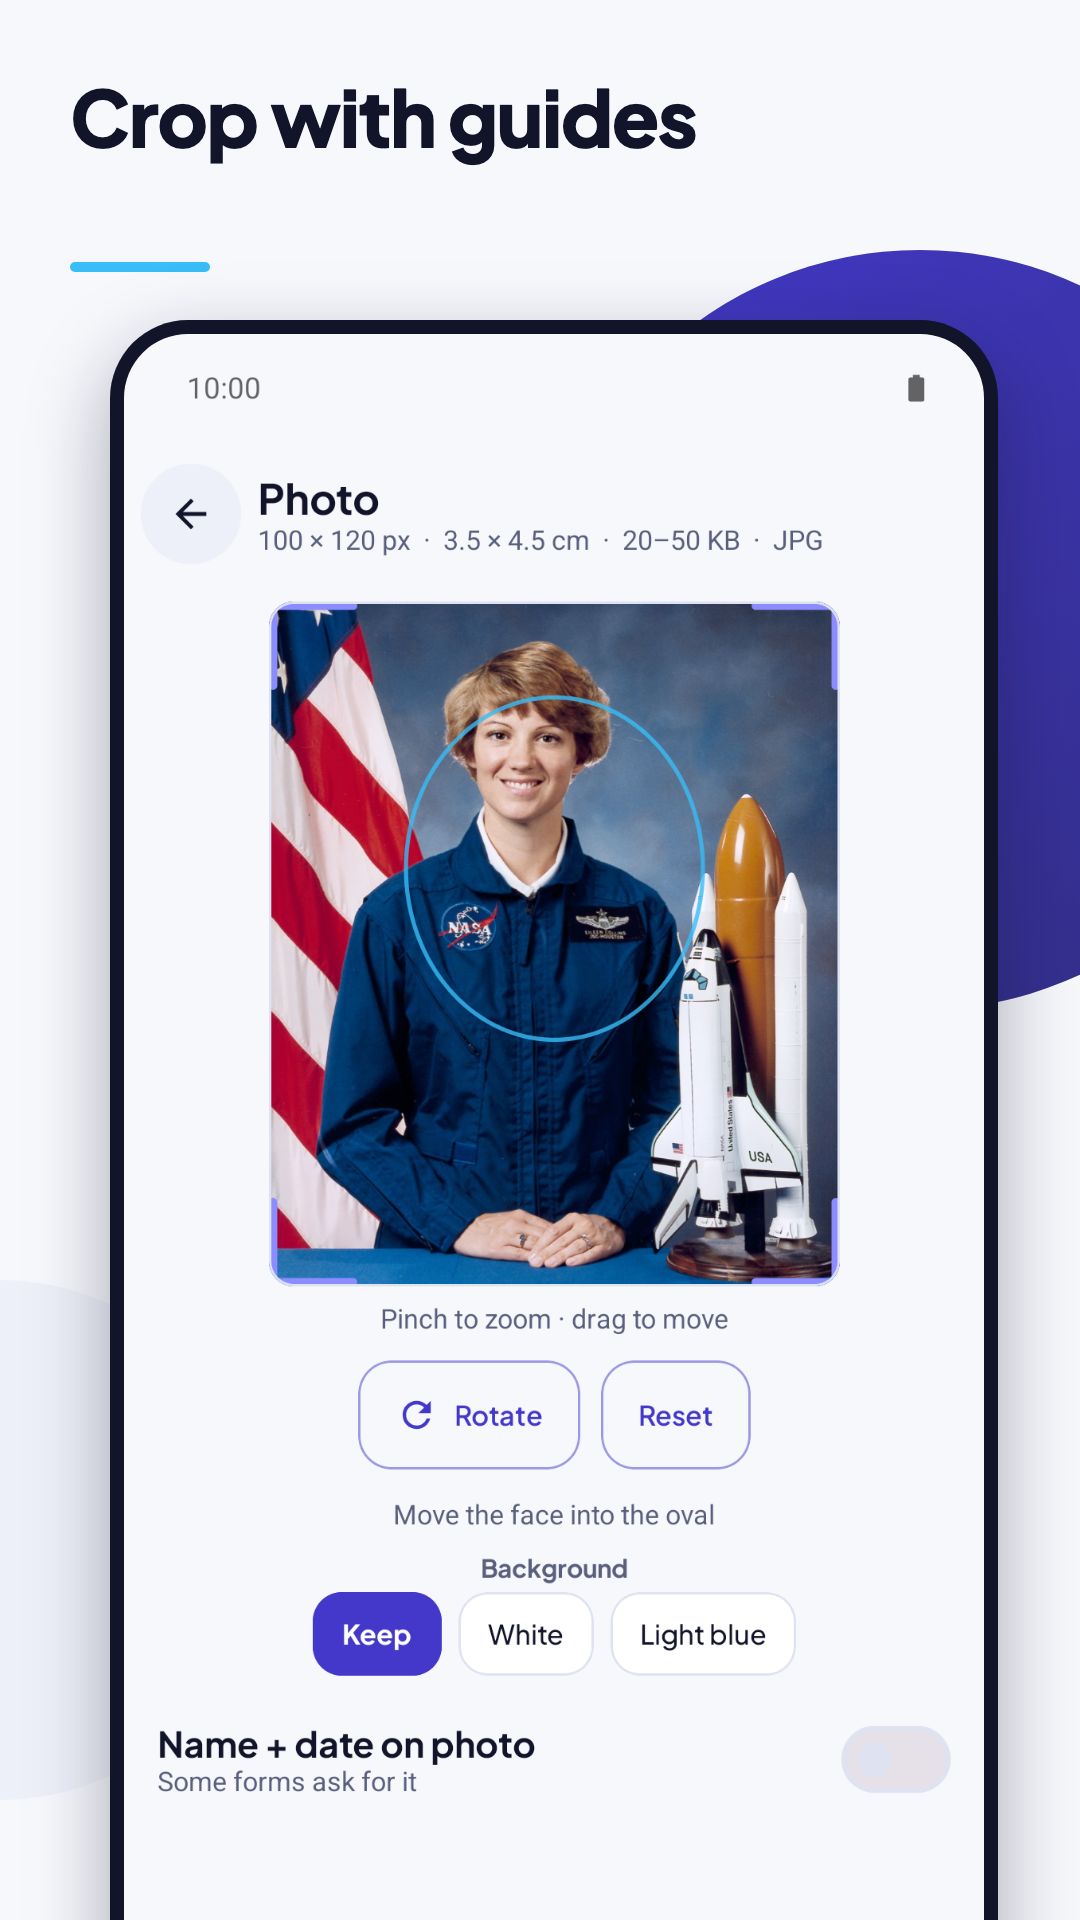
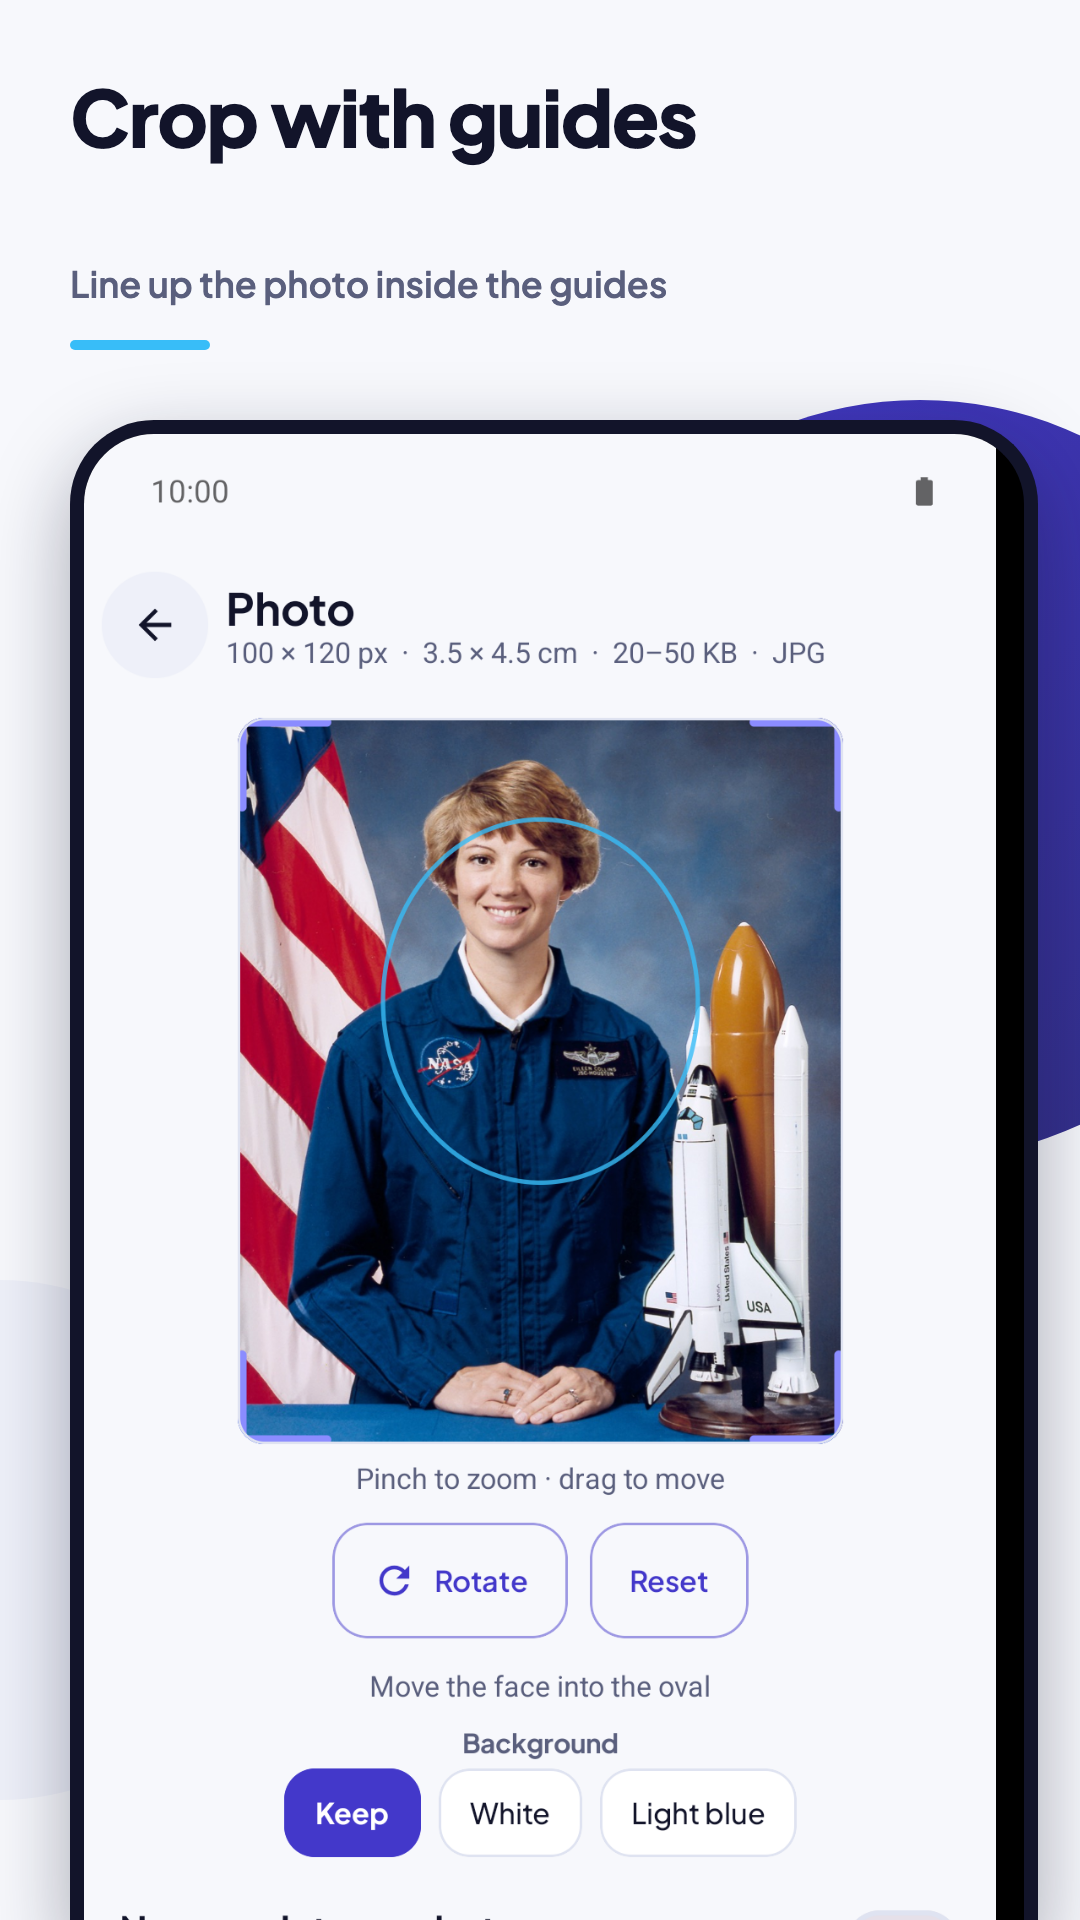
docs: Haiku release report for 1.3.0 (4), restyled store screenshots

diff --git a/tools/store-art/make_shots.py b/tools/store-art/make_shots.py
@@ -7,29 +7,30 @@ root = pathlib.Path(__file__).resolve().parents[2]
 art = root / "tools/store-art"; out = root / "store-assets/screenshots"; out.mkdir(parents=True, exist_ok=True)
 tmp = pathlib.Path("/tmp/wpf-shots"); tmp.mkdir(exist_ok=True)
 SHOTS = [
-    ("raw1_result.png", "Exam photo & sign in exact KB"),
-    ("raw2_home_search.png", "36 exam presets, searchable"),
-    ("raw3_crop_editor.png", "Crop with guides"),
-    ("raw4_signature_compare.png", "Clean, sharp signatures"),
-    ("raw5_id_editor.png", "Passport & ID photos"),
-    ("raw6_print.png", "Print 4×6 or A4 sheets"),
-    ("raw7_builder.png", "Your own custom sizes"),
-    ("raw8_dark_home.png", "Light and dark themes"),
+    ("raw1_result.png", "Exam photo & sign in exact KB", "Checks size, KB, format and DPI before you save"),
+    ("raw2_home_search.png", "36 exam presets, searchable", "SSC, UPSC, bank, NEET, JEE and more"),
+    ("raw3_crop_editor.png", "Crop with guides", "Line up the photo inside the guides"),
+    ("raw4_signature_compare.png", "Clean, sharp signatures", "Compare before and after with a slider"),
+    ("raw5_id_editor.png", "Passport & ID photos", "Face-size check for ID photos"),
+    ("raw6_print.png", "Print 4×6 or A4 sheets", "Lay out copies on one printable sheet"),
+    ("raw7_builder.png", "Your own custom sizes", "Set px, cm, mm or inches, DPI and KB range"),
+    ("raw8_dark_home.png", "Light and dark themes", "Follows your phone's theme"),
 ]
 FONT = f"@font-face{{font-family:J;src:url('file://{art}/jakarta.ttf');font-weight:200 800}}@font-face{{font-family:M;src:url('file://{art}/dmmono.ttf')}}"
 def render(html, png, w, h):
     f = tmp / (pathlib.Path(png).stem + ".html"); f.write_text(html)
     subprocess.run(["sh", str(art / "render.sh"), str(f), str(png), str(w), str(h)], check=True)
-for i, (raw, head) in enumerate(SHOTS, 1):
+for i, (raw, head, sub) in enumerate(SHOTS, 1):
     html = f"""<!doctype html><meta charset=utf-8><style>{FONT}
 html,body{{margin:0}}body{{width:1080px;height:1920px;background:#F7F8FC;position:relative;overflow:hidden;font-family:J,sans-serif}}
-.blob{{position:absolute;right:-220px;top:250px;width:760px;height:760px;border-radius:50%;background:linear-gradient(135deg,#4338CA,#312E81)}}
+.blob{{position:absolute;right:-220px;top:400px;width:760px;height:760px;border-radius:50%;background:linear-gradient(135deg,#4338CA,#312E81)}}
 .blob2{{position:absolute;left:-260px;bottom:120px;width:520px;height:520px;border-radius:50%;background:#EEF0F9}}
 h1{{position:absolute;left:70px;right:70px;top:72px;margin:0;font-size:78px;line-height:88px;font-weight:800;color:#12142A;letter-spacing:-1.5px}}
-.bar{{position:absolute;left:70px;top:262px;width:140px;height:10px;border-radius:5px;background:#38BDF8}}
-.dev{{position:absolute;left:110px;top:320px;width:860px;height:1700px;border-radius:78px 78px 0 0;border:14px solid #12142A;border-bottom:0;overflow:hidden;box-shadow:0 30px 80px rgba(18,20,42,.35);background:#000}}
-.dev img{{width:860px;display:block}}</style>
-<div class=blob></div><div class=blob2></div><h1>{head}</h1><div class=bar></div>
+.sub{{position:absolute;left:70px;right:70px;top:262px;margin:0;font-size:36px;line-height:44px;font-weight:600;color:#5A5F7D}}
+.bar{{position:absolute;left:70px;top:340px;width:140px;height:10px;border-radius:5px;background:#38BDF8}}
+.dev{{position:absolute;left:70px;top:420px;width:940px;height:1500px;border-radius:84px 84px 0 0;border:14px solid #12142A;border-bottom:0;overflow:hidden;box-shadow:0 30px 80px rgba(18,20,42,.35);background:#000}}
+.dev img{{width:912px;display:block}}</style>
+<div class=blob></div><div class=blob2></div><h1>{head}</h1><p class=sub>{sub}</p><div class=bar></div>
 <div class=dev><img src="file://{root}/store-assets/raw/{raw}"></div>"""
     render(html, out / f"{i}.png", 1080, 1920)
 # feature graphic: wordmark + value line + real capture card + Snip

diff --git a/HAIKU_RELEASE_REPORT.md b/HAIKU_RELEASE_REPORT.md
@@ -1,84 +1,65 @@
-# Haiku release report: Wiz Photo Fit 1.1.0 (2)
+# Haiku release report: Wiz Photo Fit 1.3.0 (4)
 
-Date: 2026-11-26. Branch merged to main (fast-forward) at e76388a.
+Date: 2026-11-28. Release built from `main` (tip 99f8b06, merge 34345fb includes 1575fa9). Feature branch not merged again.
 
-## Version and build
-- applicationId com.wizlabs.photofit, versionCode 2, versionName 1.1.0, minSdk 26, targetSdk 36, compileSdk 36.
-- Local: `gradle --offline :app:testDebugUnitTest :app:assembleRelease` BUILD SUCCESSFUL. Unit tests 53 run, 0 failures, 0 errors (counted from XML results). Unsigned release APK 1,894,235 bytes.
-- CI (run 45743657858, push to main): success. Artifacts: `Wiz Photo Fit (1.1.0) AAB` 4,389,553 bytes, `Wiz Photo Fit (1.1.0) APK` 1,719,763 bytes.
-- Local copies: dist/ci/Wiz Photo Fit (1.1.0) AAB/Wiz Photo Fit (1.1.0).aab (4,534,859 bytes on disk; gitignored).
+## Version
+- applicationId com.wizlabs.photofit, versionCode 4, versionName 1.3.0, minSdk 26, targetSdk 36, compileSdk 36 (`app/build.gradle.kts`)
+- Play track: Closed testing - Alpha, release name `4 (1.3.0)`. Previous release 3 (1.2.0) stays live.
 
-## Signing
-- `jarsigner -verify -certs` on the AAB: jar verified, signed by CN=Wiz Labs, OU=Wiz Labs, O=Wiz Labs, L=Ambala, ST=Haryana, C=IN. Signature file alias WIZFUELD.
-- Same signer as the 1.0.0 (1) AAB in play-uploads-v2 (matching upload key).
-- APK badging (aapt2 on CI APK): package com.wizlabs.photofit, versionCode 2, versionName 1.1.0, targetSdk 36.
-- Secrets and keystore not printed, copied or changed.
-- Not checked: AAB manifest versionCode read directly (no bundletool here). Versioning taken from the CI APK built from the same commit.
+## Build and tests
+- `gradle --offline :app:testDebugUnitTest :app:assembleRelease`: BUILD SUCCESSFUL. Unit tests 76 run, 0 failures, 0 errors (counted from `app/build/test-results`).
+- Release APK (local, signer CN=Wiz Labs): 1,921,057 bytes.
+- CI "Wiz Photo Fit - Production APK and AAB" on main tip 99f8b06: success (run 46158414607).
 
-## Play Console (Closed testing - Alpha)
-- Existing 1.0.0 (1): live on the track ("Available to selected testers", released Nov 14 2026, 178 countries). Publishing submissions for the app: 0 in review. No review in progress.
-- New draft release "2 (1.1.0)" created on Closed testing - Alpha:
-  - AAB uploaded (App bundle 2 (1.1.0), API 26+, target SDK 36, 4 ABIs).
-  - Release notes en-US (changelogs/2.txt, wrapped in language tags). hi-IN not provided.
-  - Saved. Publishing overview: "Changes not yet submitted for review" (Closed testing - Alpha, 2 (1.1.0)).
-  - NOT sent for review.
-- Warning shown by Play: native code without debug symbols (optional symbol upload).
-- Not done: store listing screenshots upload (en-US, 8 images in order from store-assets/screenshots/). Listing page not reached in this run.
+## AAB
+- Path: `dist/ci/Wiz Photo Fit (1.3.0) AAB/Wiz Photo Fit (1.3.0).aab` (gitignored)
+- Size 4,586,075 bytes (under the 10 MB split limit, uploaded as one file)
+- SHA-256 399a67e3847132f672250fc912dda5c08d8e2848afb768c3232c4b3f910b2272
+- Signer: `CN=Wiz Labs, OU=Wiz Labs, O=Wiz Labs, L=Ambala, ST=Haryana, C=IN` (from `META-INF/*.RSA`). Upload accepted, no key-mismatch error.
+- Play bundle row shows version 4 (1.3.0), API 26+, target SDK 36.
+- versionCode 4 confirmed in the local APK manifest and in source; the AAB's binary manifest was not decoded (no bundletool here).
 
-## Store assets and listing
-- icon-512.png: 512x512, text-free. OK.
-- feature-graphic-1024x500.png: 1024x500. OK.
-- screenshots 1-8: all 1080x1920. Not re-viewed in this run.
-- Title (30 chars): "Wiz Photo Fit: Exam Photo&Sign". OK.
-- Short description: 75 chars. OK.
-- Full description en-US: 2,941 chars. Changed: "Small download and smooth on low-end phones" -> "Small download" (claim not verified: jank inconclusive, cold start over target).
-- Hindi (hi-IN) full description still has no new-feature text. Known.
-- Promo-word scan of en-US listing and changelog: no hits for best, #1, top, free, price, ads, promo.
+## Permissions (merged APK manifest)
+- `android.permission.INTERNET`, `android.permission.ACCESS_NETWORK_STATE`, the AndroidX `DYNAMIC_RECEIVER_NOT_EXPORTED_PERMISSION` signature permission. No AD_ID, no AdMob app-ID meta-data.
+- Ads SDK check: `grep` for `com.google.android.gms.ads` and `ump` in app sources returned 0 hits; APK contains 0 entries matching gms/ads, ump or admob.
+- AdsSetup `ENABLED = false`; ad slots have zero height. Play "Contains ads" must stay **No**.
 
-## Claims vs build (spot-checked in code)
-- Present: name+date on photo (PresetBuilderScreen), join (SavedJoin), WebP output (CompressScreen, BitmapCodec), face and background tools (FaceFinder, BackgroundSwap), compare slider (CompareSlider), compliance check (Compliance), search (SearchIndex), recents (Recents), Snip (SnipBrain, SnipArt).
-- Not verified on device: automatic face fit and background swap on a Play-services device; TalkBack; tablet; 200 % font scale.
+## Store assets
+- App icon: `store-assets/icon-512.png` (512x512). Play now shows 1 icon (the new tape-card icon). Old icon removed.
+- Feature graphic: `store-assets/feature-graphic-1024x500.png` (1024x500). Old feature graphic (which claimed "No ads / Offline / 0 permissions") removed; new one saved.
+- Phone screenshots: `store-assets/screenshots/1.png`..`8.png` (1080x1920). Restyled this run to headline + subline + larger phone frame, using only real emulator captures. Uploaded in order 1..8 (verified via DOM order). All 8 old `01-home`..`08-compress` screenshots deleted.
+- Generator: `tools/store-art/make_shots.py` (changed; uncommitted until the report commit).
+- hi-IN: no graphics in repo; none uploaded.
+- Tablet / foldable / desktop / XR screenshots: none in repo; not uploaded.
 
-## Privacy policy
-- Changed (privacy-policy.html at root and app/src/main/assets/, identical): ML Kit line now says Google Play services downloads the models once, the app runs them on the phone, the app has no internet access, and the download is under Google's privacy policy. "Last updated" 26 November 2026.
-- Published by GitHub Pages from main (source branch main, path /). Live after the merge; not re-fetched in this run.
+## Listing text (en-US, saved in Play)
+- Title `Wiz Photo Fit: Exam Photo&Sign` 30/30
+- Short description 75/80
+- Full description 3104/4000 (matches `fastlane/metadata/android/en-US/full_description.txt`)
+- Release notes (en-US, from `changelogs/4.txt`) pasted with `<en-US>` tags.
+- No banned words (best, #1, top, free, price) in en-US text.
+- hi-IN listing text in Play was NOT updated in this run. Its old text may still contain outdated claims (for example "no internet permission"). Needs a separate edit before the next release.
 
-## Data safety (not changed; needs owner answers)
-- Current declaration: no data collected.
-- Proposed review: Play-services ML Kit model download may count as Device or other IDs and Diagnostics. Owner must confirm before any change in Play Console.
-- Not yet read from the Play Console Data safety page in this run.
+## Competitor ASO check (step 8c)
+- Scope: query "exam photo resizer" only (India, English), top 5 distinct apps checked: Exam Photo Resizer & Editor (Apptivize), Photo Resizer & Signature 20KB (Aarvion), GovPhoto (Dhanuk Softwares), Photo Resizer for Form Fill Up (FairSoftTech), Photo & Picture Resizer (Farluner). All 5 show "Contains ads" and in-app purchases/ads.
+- Queries "photo size in KB", "signature resizer", "passport size photo", "SSC photo size", "compress photo to 20 KB" and the Hindi queries were NOT analysed.
+- Decision: no listing text edit. The current en-US short and full descriptions already contain the competitor keywords (SSC, NEET, JEE, bank, KB, signature). No copying of competitor text.
 
-## Compliance checks
-- Merged manifest: no INTERNET, no ACCESS_NETWORK_STATE; only AndroidX DYNAMIC_RECEIVER_NOT_EXPORTED_PERMISSION (signature). Matches "no permissions" declaration.
-- Ads: No (no ad SDK).
-- Target audience 18+ and India-only availability: not re-checked in Play Console this run.
+## Data safety, App content, declarations
+- Data safety: not re-edited in this run. Handoff says it is unchanged vs 1.2.0 (Device IDs + Diagnostics via ML Kit, not shared). INTERNET is used by Play in-app updates; no ad data.
+- App content overview: "You're all caught up", nothing pending.
+- Ads = No, target audience 18+, India-only: as already set; not re-verified in this run.
+- Edge-to-edge warnings (step 8b): not present in the Play review screen for this release. The only warning was "Changes to your supported devices" (informational). Pre-launch report not checked.
 
-## Production
-- Not touched. Requires explicit owner approval. 12+ opted-in testers for 14 days may apply to new personal accounts; count not read.
+## Submission status
+- Release saved on Closed testing - Alpha, then "Send changes for review" clicked.
+- Publishing overview now shows **"Changes in review"** for Photo Fit (4 (1.3.0)). Seen on screen; not yet approved.
+- Production: NOT touched. Needs a separate explicit yes from the user. Play also needs 12+ opted-in testers for 14 days on new personal-account apps; current count not checked.
 
-## Ads-ready 1.2.0 (not done)
-- Blocked on decision: wiz-ads (/Users/aashish/Desktop/Personal FIles/Claude Code/wiz-ads) header says v0.2 links the GMA Next-Gen SDK and UMP. The SDK-free v0.1 pattern (PDF Master 1.5.0) adds no ad SDK. Need owner pick: v0.1 SDK-free, or v0.2 with SDK.
-- Going ads-ready also drops the "No internet" claim (listing, trust text, README, privacy policy) and needs Data safety changes.
-
-## Outstanding issues (unchanged from Sonnet)
-- Cold start 1.2–2.1 s compiled on emulator vs 1.1 s target.
-- Face auto-fit and background swap untested on a Play-services device.
-- No tablet layout.
-- Hindi listing lacks new-feature text.
-- Native debug symbols not uploaded (Play warning).
-
-## Status summary
-- Merged and pushed: yes (main, e76388a).
-- CI AAB: built, downloaded, signed by Wiz Labs.
-- Play draft 2 (1.1.0): AAB and notes staged, not submitted.
-- Waiting on owner: Data safety answers, store screenshots upload, ads-ready decision, review submit yes, production (no).
-
-## Store graphics replaced (2026-11-26) — BLOCKED, nothing changed on Play
-
-- Asset check: icon-512.png 512x512, feature-graphic-1024x500.png 1024x500, screenshots/1-result..8-dark.png all 1080x1920. OK.
-- Play Console app: "Photo Fit: Exam Photo & Sign" (id 4976075306683317179, developer 5669646636695105274, Wiz Labs). No sign-in prompt seen.
-- Default store listing (en-US) opened. Current graphics: icon, feature graphic, 8 phone screenshots (old look). Tablet/foldable slots present, not touched.
-- Removed the 8 old phone screenshots in the page, then could not upload: "Add assets" opens a native file picker that Claude in Chrome tools cannot reach (no file input in DOM). Computer-use cannot read Chrome (browser tier is read-only), would need full screen control.
-- Unsaved removals discarded. Listing back to old graphics (8/8 phone shots). Not saved, not sent for review, public listing unchanged.
-- Not done: icon, feature graphic, screenshot upload, translations check, review submit, public verification.
-- Next: run upload with full screen control or manual upload in Play Console using the files above (order 1-result to 8-dark).
+## Outstanding issues
+1. hi-IN listing text in Play not updated (see above).
+2. Competitor check covers one query, not all six.
+3. Data safety and App content declarations not re-verified in this run.
+4. Snip emotion recording is a screencap sequence, not a screenrecord (from Sonnet's STATUS.md); no store impact.
+5. Face auto-fit and background swap not tested on a device with Play-services ML modules (STATUS.md).
+6. Local release key is the common Wiz key. 1.0.0 used the older "photo fit" key; Play accepted the 1.3.0 AAB under the common key.
